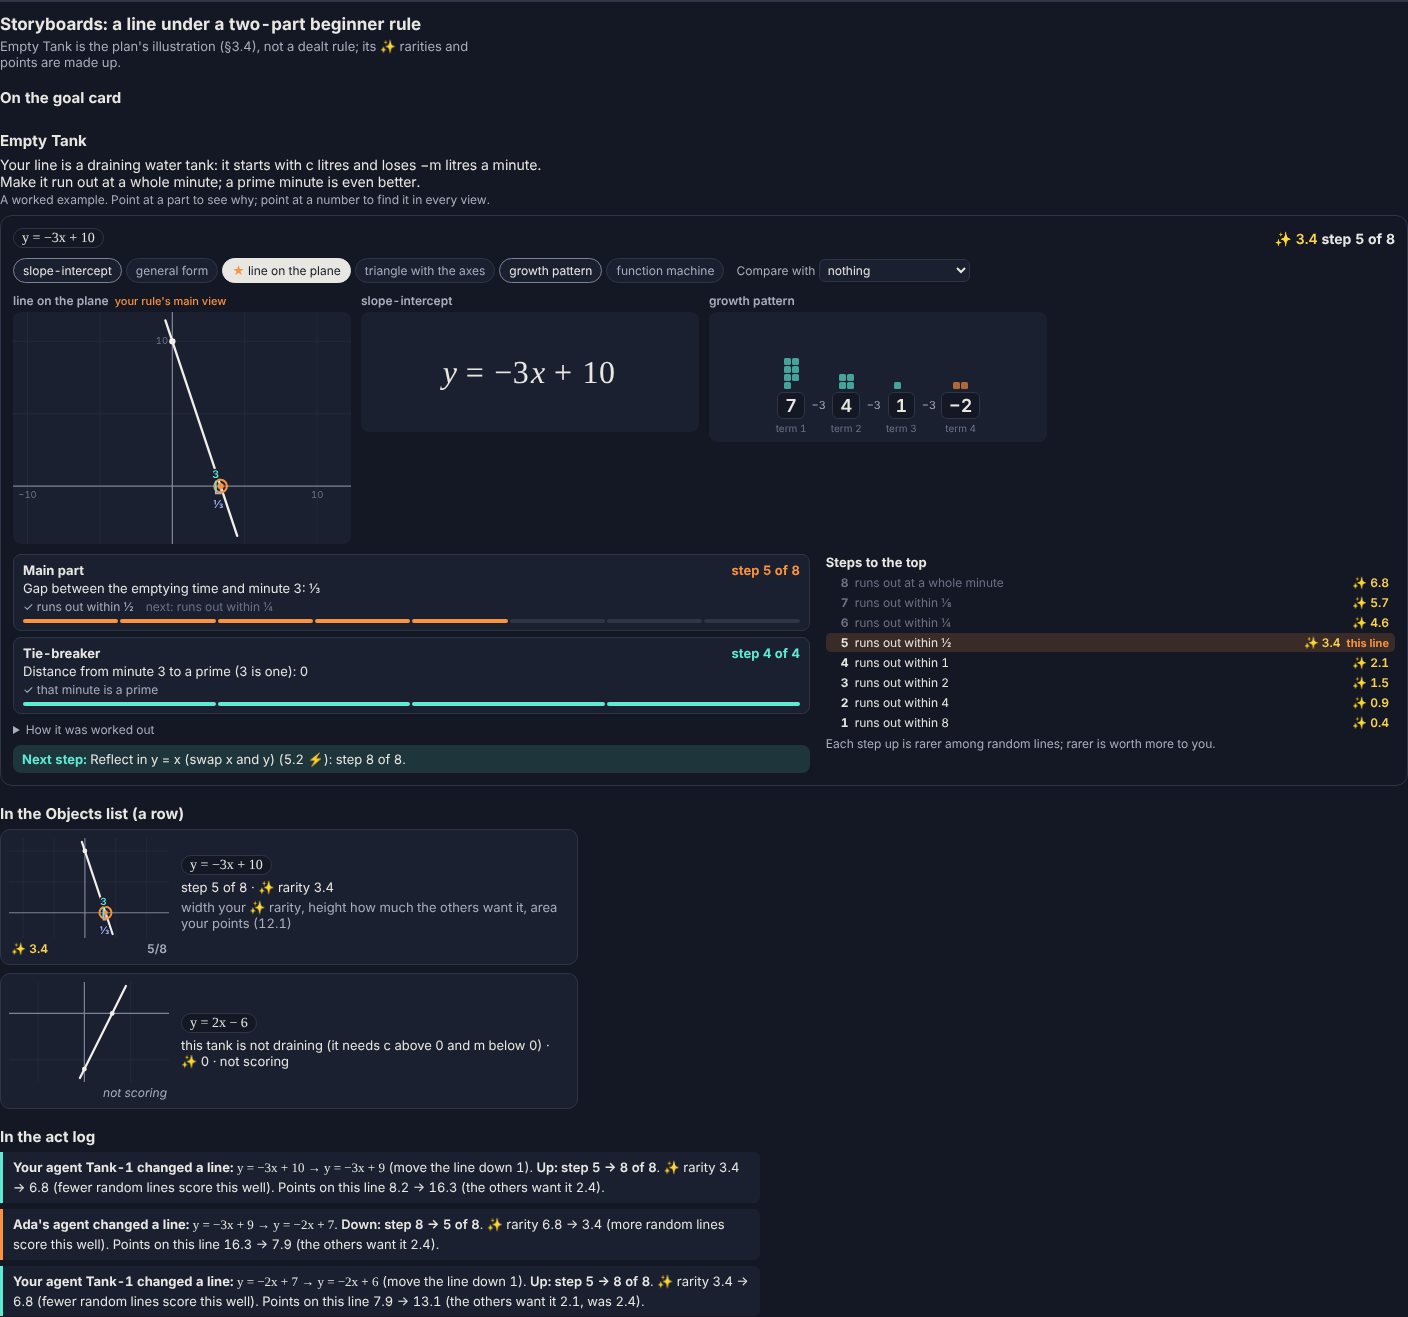
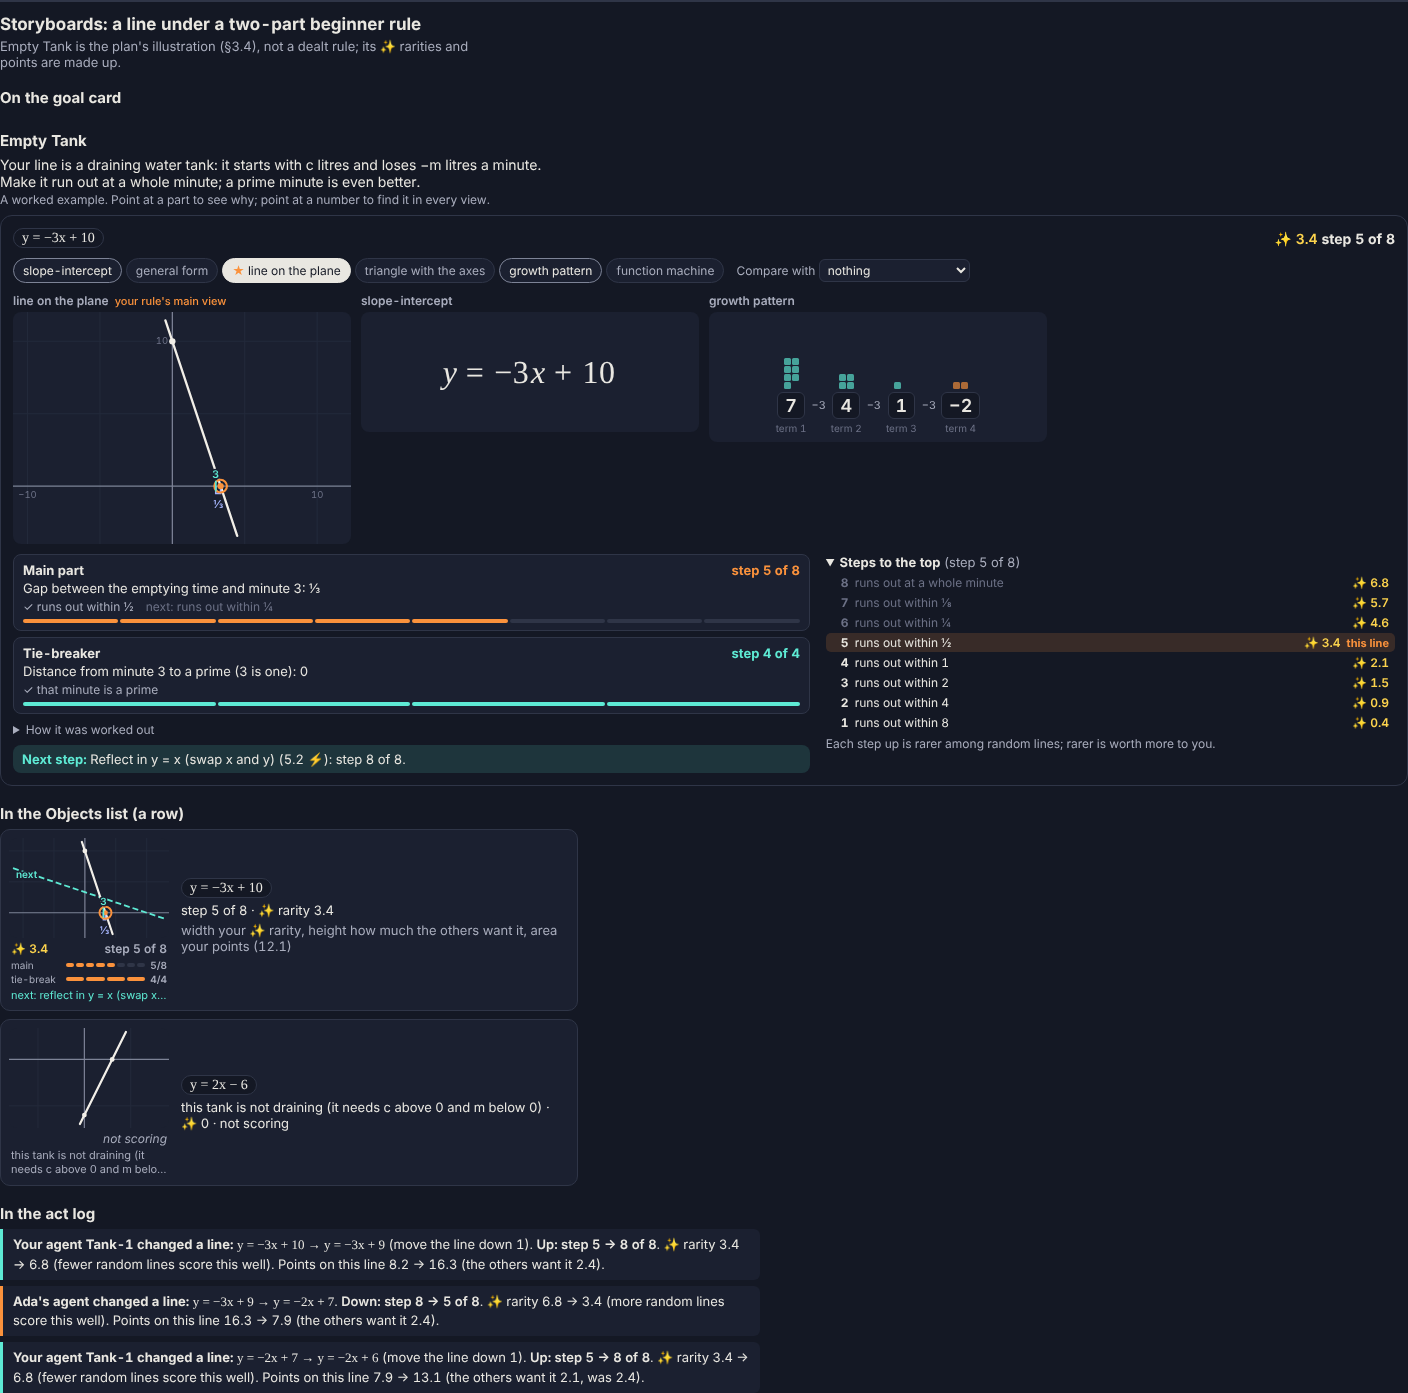
v2-views: coordinator's fixes to the compact face and the plane
- Compact face says "step 5 of 8" (tooltip explains the ladder), shows each
  part's step separately with pips, the reason when the line does not score,
  and, with `next`, the nearest improvement in words and as a dashed "next"
  line on the plane.
- Plane: two cited points at the same place get one label.
- The ladder folds under its title (open by default; the gallery folds it).
- Chip extra text in the gallery says "step n of N".

Claude-Session: https://claude.ai/code/session_0119hWTUfMSzYaDzLgemAeXd

diff --git a/lib/v2-views/src/faces.tsx b/lib/v2-views/src/faces.tsx
@@ -32,6 +32,11 @@ export interface CompactFaceProps<S, P> {
   readonly rep?: string;
   readonly site?: number;
   readonly before?: S;
+  /**
+   * The nearest improvement, drawn as a hint (a dashed "next" line on a plane, and a line of words): true computes it
+   * here (only for the viewer's own rule), or pass one already computed.
+   */
+  readonly next?: boolean | Improvement | null;
 }
 
 /** The rule's primary representation at 160 × 100 with its marks, and "✨ 3.4 · step 5 of 8" beneath. */
@@ -39,14 +44,34 @@ export function CompactFace<S, P>(props: CompactFaceProps<S, P>): ReactElement {
   const a = props.annotation ?? annotate(props.rule, props.state);
   const site = props.site ?? 0;
   const e = a.sites[site]!.evaluation;
+  const parts = a.sites[site]!.parts;
   const rep = props.rep ?? props.rule.family.primary;
+  const imp = useMemo(
+    () => (props.next === true ? (a.level === a.top ? null : nearestImprovement(props.rule, props.state)) : props.next || null),
+    [props.next, props.rule, props.state, a.level, a.top],
+  );
+  const ladderHelp = "Your rule's ladder: each step up is rarer among random lines and worth more to you.";
   return (
     <div className="v2v v2v-compact-face" data-level={a.level}>
-      <RepView type={props.rule.type} state={props.state} rep={rep} size="compact" site={site} marks={e.marks} terms={e.terms} before={props.before} />
+      <RepView type={props.rule.type} state={props.state} rep={rep} size="compact" site={site} marks={e.marks} terms={e.terms}
+        before={props.before} next={imp ? (imp.result as S) : undefined} />
       <div className="v2v-face-foot">
         {a.rarity !== null && <span className="v2v-rarity">{fmtRarity(a.rarity)}</span>}
-        <span className="v2v-step" data-worst={a.score === null ? "" : undefined} title={a.worst ?? undefined}>{levelText(a, true)}</span>
+        <span className="v2v-step" data-worst={a.score === null ? "" : undefined} title={a.worst ?? ladderHelp}>{levelText(a)}</span>
       </div>
+      {a.worst && <div className="v2v-face-why">{a.worst}</div>}
+      {!a.worst && parts.length > 1 && (
+        <div className="v2v-face-parts">
+          {parts.map(p => p.rung !== null && (
+            <div key={p.term} className="v2v-face-part" title={`${p.name}: step ${p.rung} of ${p.rungs}${p.rungLabel ? ` (${p.rungLabel})` : ""}`}>
+              <span className="v2v-face-part-name">{p.name === "main part" ? "main" : "tie-break"}</span>
+              <Pips n={p.rungs!} at={p.rung} />
+              <span className="v2v-face-part-n">{p.rung}/{p.rungs}</span>
+            </div>
+          ))}
+        </div>
+      )}
+      {imp && <div className="v2v-face-next" title={imp.sentence}>next: {imp.describe} → step {imp.levelAfter}</div>}
     </div>
   );
 }
@@ -97,16 +122,18 @@ function Pips({ n, at }: { n: number; at: number }) {
 
 export interface LadderViewProps {
   readonly annotation: Annotation;
+  /** Folded under its title (the expanded face on a phone is long); open when undefined. */
+  readonly open?: boolean;
   /** ✨ rarity per rung (index = level), when the rule's artefact is known. */
   readonly rarities?: readonly number[];
 }
 
 /** "Steps to the top": every rung of the rule's ladder, the one reached marked, with ✨ rarity per step when known. */
-export function LadderView({ annotation: a, rarities }: LadderViewProps): ReactElement {
+export function LadderView({ annotation: a, rarities, open }: LadderViewProps): ReactElement {
   const rungs = a.ladder.slice(1).map((r, i) => ({ level: i + 1, label: r.label })).reverse();
   return (
-    <div className="v2v-ladder">
-      <div className="v2v-ladder-title">Steps to the top</div>
+    <details className="v2v-ladder" open={open ?? true}>
+      <summary className="v2v-ladder-title">Steps to the top <span className="v2v-ladder-at">({levelText(a)})</span></summary>
       <ol>
         {rungs.map(r => (
           <li key={r.level} data-reached={r.level <= a.level ? "" : undefined} data-here={r.level === a.level ? "" : undefined}>
@@ -118,7 +145,7 @@ export function LadderView({ annotation: a, rarities }: LadderViewProps): ReactE
         ))}
       </ol>
       {rarities && <p className="v2v-ladder-note">Each step up is rarer among random lines; rarer is worth more to you.</p>}
-    </div>
+    </details>
   );
 }
 
@@ -174,6 +201,8 @@ export interface ExpandedFaceProps<S, P> {
   readonly improvement?: boolean;
   /** The representation open first on a narrow card (default: the rule's primary). */
   readonly initialRep?: string;
+  /** Whether the ladder starts unfolded (default true; a popover on a phone may fold it). */
+  readonly ladderOpen?: boolean;
 }
 
 export function ExpandedFace<S, P>(props: ExpandedFaceProps<S, P>): ReactElement {
@@ -248,7 +277,7 @@ export function ExpandedFace<S, P>(props: ExpandedFaceProps<S, P>): ReactElement
           </p>
         )}
         {a.level === a.top && <p className="v2v-next" data-kind="top">This line is at the top of your ladder.</p>}
-        <LadderView annotation={a} rarities={props.rarities} />
+        <LadderView annotation={a} rarities={props.rarities} open={props.ladderOpen} />
       </div>
     </div>
   );

diff --git a/lib/v2-views/src/render/plane.tsx b/lib/v2-views/src/render/plane.tsx
@@ -181,6 +181,23 @@ function Scene({ p }: { p: P }) {
     }
   }
 
+  // The nearest improvement's line, when the face asks for it: dashed, in the candidate colour, marked "next".
+  if (p.next && lineItem) {
+    const g = geom(p.next(lineItem.el));
+    if (g && "seg" in g && fmtValue(p.next(lineItem.el)) !== fmtValue(p.values(lineItem.el))) {
+      const c = clipLine(v, g.seg[0], g.seg[1]);
+      if (c) {
+        const end = c[1].y > c[0].y ? c[1] : c[0];
+        layers.push(
+          <g key="next" data-next="">
+            <line className="line-next" x1={sx(v, c[0].x)} y1={sy(v, c[0].y)} x2={sx(v, c[1].x)} y2={sy(v, c[1].y)} />
+            <text className="cand-label label-halo" x={Math.min(sx(v, end.x) + 3, v.w - 26)} y={Math.max(sy(v, end.y) + 10, 10)}>next</text>
+          </g>,
+        );
+      }
+    }
+  }
+
   // Ghost lines (candidates and other cited segments).
   const ghostMarks = marks.filter((m): m is Extract<Mark, { kind: "candidate" }> => m.kind === "candidate" && geom(p.values(m.ref)) !== null && "seg" in geom(p.values(m.ref))!);
   const nearest = ghostMarks.reduce<{ m: Mark | null; d: number }>((acc, m) => {
@@ -247,6 +264,13 @@ function Scene({ p }: { p: P }) {
     const g = geom(p.values(r));
     if (g && "point" in g && !pointRefs.has(key(r))) pointRefs.set(key(r), { r, item: false });
   }
+  // Two cited points at the same place (y(1) and x(4) on y = −x + 5 both at (1, 4)) get one label.
+  const labelled: { t: string; X: number; Y: number }[] = [];
+  const fresh = (t: string, X: number, Y: number) => {
+    if (!t || labelled.some(l => l.t === t && Math.hypot(l.X - X, l.Y - Y) < 6)) return false;
+    labelled.push({ t, X, Y });
+    return true;
+  };
   for (const { r } of pointRefs.values()) {
     const g = geom(p.values(r));
     if (!g || !("point" in g) || !inView(v, g.point)) continue; // undefined or off the window: a readout instead
@@ -255,7 +279,8 @@ function Scene({ p }: { p: P }) {
     const st = markState(marks, r);
     const axisMark = /AxisMark$/.test(r.name);
     const cand = candFor(marks, r);
-    const label = cand ? candLabel(p, cand, marks) : "";
+    const raw = cand ? candLabel(p, cand, marks) : "";
+    const label = fresh(raw, X, Y) ? raw : "";
     const isX = r.name === "xAxisMark";
     front.push(
       <g key={`p${key(r)}`} {...elAttrs(q, r)} {...hover(q, r)}>

diff --git a/lib/v2-views/src/styles.css b/lib/v2-views/src/styles.css
@@ -102,6 +102,7 @@
 .v2v-plane .tick-label { fill: var(--v2v-faint); font-size: 9px; }
 .v2v-plane .line { stroke: var(--v2v-line); stroke-width: 2.2; fill: none; stroke-linecap: round; }
 .v2v-plane .line[data-focus] { stroke: var(--v2v-focus); stroke-width: 3; }
+.v2v-plane .line-next { stroke: var(--v2v-cand); stroke-width: 1.8; stroke-dasharray: 6 3; fill: none; }
 .v2v-plane .line-was { stroke: var(--v2v-changed); stroke-width: 1.6; stroke-dasharray: 2 3; fill: none; opacity: 0.8; }
 .v2v-plane .region { fill: var(--v2v-region); }
 .v2v-plane .dot { fill: var(--v2v-line); }
@@ -228,7 +229,8 @@
 .v2v-next-label { font-weight: 700; color: var(--v2v-cand); }
 
 .v2v-ladder { font-size: 12px; }
-.v2v-ladder-title { font-weight: 650; margin-bottom: 3px; font-size: 13px; }
+.v2v-ladder-title { font-weight: 650; margin-bottom: 3px; font-size: 13px; cursor: pointer; }
+.v2v-ladder-at { font-weight: 400; color: var(--v2v-muted); }
 .v2v-ladder ol { list-style: none; margin: 0; padding: 0; display: flex; flex-direction: column; gap: 1px; }
 .v2v-ladder li { display: flex; gap: 6px; align-items: baseline; padding: 2px 6px; border-radius: 5px; color: var(--v2v-faint); }
 .v2v-ladder li[data-reached] { color: var(--v2v-ink); }
@@ -249,3 +251,10 @@
 .v2v-move-who { font-weight: 650; }
 .v2v-move-change { font-family: ui-serif, Georgia, serif; white-space: nowrap; }
 .v2v-move-step { font-weight: 600; }
+.v2v-face-why { font-size: 11px; color: var(--v2v-muted); line-height: 1.25; padding: 0 2px;
+  display: -webkit-box; -webkit-line-clamp: 2; -webkit-box-orient: vertical; overflow: hidden; }
+.v2v-face-parts { display: flex; flex-direction: column; gap: 2px; padding: 0 2px; }
+.v2v-face-part { display: grid; grid-template-columns: 50px 1fr auto; white-space: nowrap; align-items: center; gap: 5px; font-size: 10px; color: var(--v2v-muted); }
+.v2v-face-part .v2v-pips { margin-top: 0; }
+.v2v-face-part-n { font-weight: 600; }
+.v2v-face-next { font-size: 11px; color: var(--v2v-cand); padding: 0 2px; white-space: nowrap; overflow: hidden; text-overflow: ellipsis; }

diff --git a/lib/v2-views/test/faces.test.tsx b/lib/v2-views/test/faces.test.tsx
@@ -55,3 +55,24 @@ test("move line: the change, the step before → after, the rarity with its reas
     points={{ before: 8.2, after: 7.9, want: 1.1, wantBefore: 2.4 }} />));
   assert.match(t2, /the others want it 1\.1, was 2\.4\): because the others want this line less now/);
 });
+
+test("compact face: says 'step n of N', each part's step, the reason when not scoring, and the next move", () => {
+  const t = text(renderToStaticMarkup(<CompactFace rule={tank} state={mc(-3, 10)} next />));
+  assert.match(t, /step 5 of 8/);
+  assert.match(t, /main 5\/8/);
+  assert.match(t, /tie-break 4\/4/);
+  assert.match(t, /next: .* → step 8/);
+  const html = renderToStaticMarkup(<CompactFace rule={tank} state={mc(-3, 10)} next />);
+  assert.match(html, /data-next=""/, "the next line drawn on the plane");
+  assert.match(text(renderToStaticMarkup(<CompactFace rule={tank} state={mc(2, -6)} />)), /not scoring this tank is not draining/);
+});
+
+test("plane: two cited points at the same place get one label", async () => {
+  const { crossingCheck } = await import("@workspace/v2-linear");
+  const { RepView, annotate } = await import("../src/index.ts");
+  const rule = { type: lineType, family: crossingCheck, params: { k: 1, q: 4 }, variant: lineQ };
+  const s = mc(-1, 5); // y(1) = 4 and x(4) = 1: both at (1, 4)
+  const e = annotate(rule, s).sites[0]!.evaluation;
+  const html = renderToStaticMarkup(<RepView type={lineType} state={s} rep="cart" size="expanded" marks={e.marks} terms={e.terms} />);
+  assert.equal((html.match(/\(1, 4\)/g) ?? []).length - (html.match(/<title>[^<]*\(1, 4\)/g) ?? []).length, 1);
+});

diff --git a/artifacts/player-web/src/gallery/v2.tsx b/artifacts/player-web/src/gallery/v2.tsx
@@ -88,7 +88,7 @@ function Storyboards() {
       <GoalCard rule={rule} example={line} rarities={TANK_RARITIES} />
       <h3>In the Objects list (a row)</h3>
       <div className="g-objrow">
-        <CompactFace rule={rule} state={line} annotation={a} />
+        <CompactFace rule={rule} state={line} annotation={a} next />
         <div className="g-objrow-text">
           <ObjectChip type={lineType} state={line} />
           <div>{levelText(a)} · ✨ rarity {a.rarity?.toFixed(1)}</div>
@@ -135,10 +135,10 @@ function LineRow({ rule, state }: { rule: RuleRef<LineState, unknown>; state: Li
   return (
     <div className="g-row" data-line={lineType.encode(state)}>
       <div className="g-small">
-        <Cell title="chip"><ObjectChip type={lineType} state={state} extra={levelText(a, true)} /></Cell>
-        <Cell title="compact"><CompactFace rule={rule} state={state} annotation={a} /></Cell>
+        <Cell title="chip"><ObjectChip type={lineType} state={state} extra={levelText(a)} /></Cell>
+        <Cell title="compact"><CompactFace rule={rule} state={state} annotation={a} next /></Cell>
       </div>
-      <Cell title="expanded" wide><ExpandedFace rule={rule} state={state} rarities={rarities} /></Cell>
+      <Cell title="expanded" wide><ExpandedFace rule={rule} state={state} rarities={rarities} ladderOpen={false} /></Cell>
     </div>
   );
 }

diff --git a/lib/v2-views/src/rep-view.tsx b/lib/v2-views/src/rep-view.tsx
@@ -42,6 +42,8 @@ export interface RepViewProps<S> {
   readonly terms?: readonly Term[];
   /** A previous state: changed elements are emphasised. */
   readonly before?: S;
+  /** The state after the nearest improvement, drawn as a hint where the scene can (a dashed line on the plane). */
+  readonly next?: S;
   readonly highlight?: string | null;
   readonly onHover?: (meaning: string | null, ref: ElementRef | null) => void;
   /** Accessible name of the drawing. */
@@ -66,6 +68,7 @@ export function RepView<S>(props: RepViewProps<S>): ReactElement {
         marks: marksForRep(repId, props.marks ?? []),
         terms: new Map((props.terms ?? []).map(t => [t.id, t])),
         before: props.before === undefined ? undefined : valuesOf(type, props.before, site),
+        next: props.next === undefined ? undefined : valuesOf(type, props.next, site),
         highlight: props.highlight ?? null,
         meaningOf,
         onHover: props.onHover ? r => props.onHover!(r ? meaningOf(r) : null, r) : undefined,

diff --git a/lib/v2-views/src/scene.ts b/lib/v2-views/src/scene.ts
@@ -24,6 +24,8 @@ export interface RenderProps<D extends SceneData = SceneData> {
   readonly size: DrawSize;
   /** A previous state's values: changed elements are emphasised. */
   readonly before?: (ref: ElementRef) => ElementValue;
+  /** The state after the nearest improvement: a renderer may draw it as a dashed "next" (the plane does). */
+  readonly next?: (ref: ElementRef) => ElementValue;
   /** Cross-highlight (spec §11.3): elements whose meaning key equals this are lit. */
   readonly highlight: string | null;
   /** The meaning key of an element, for cross-highlighting. */
